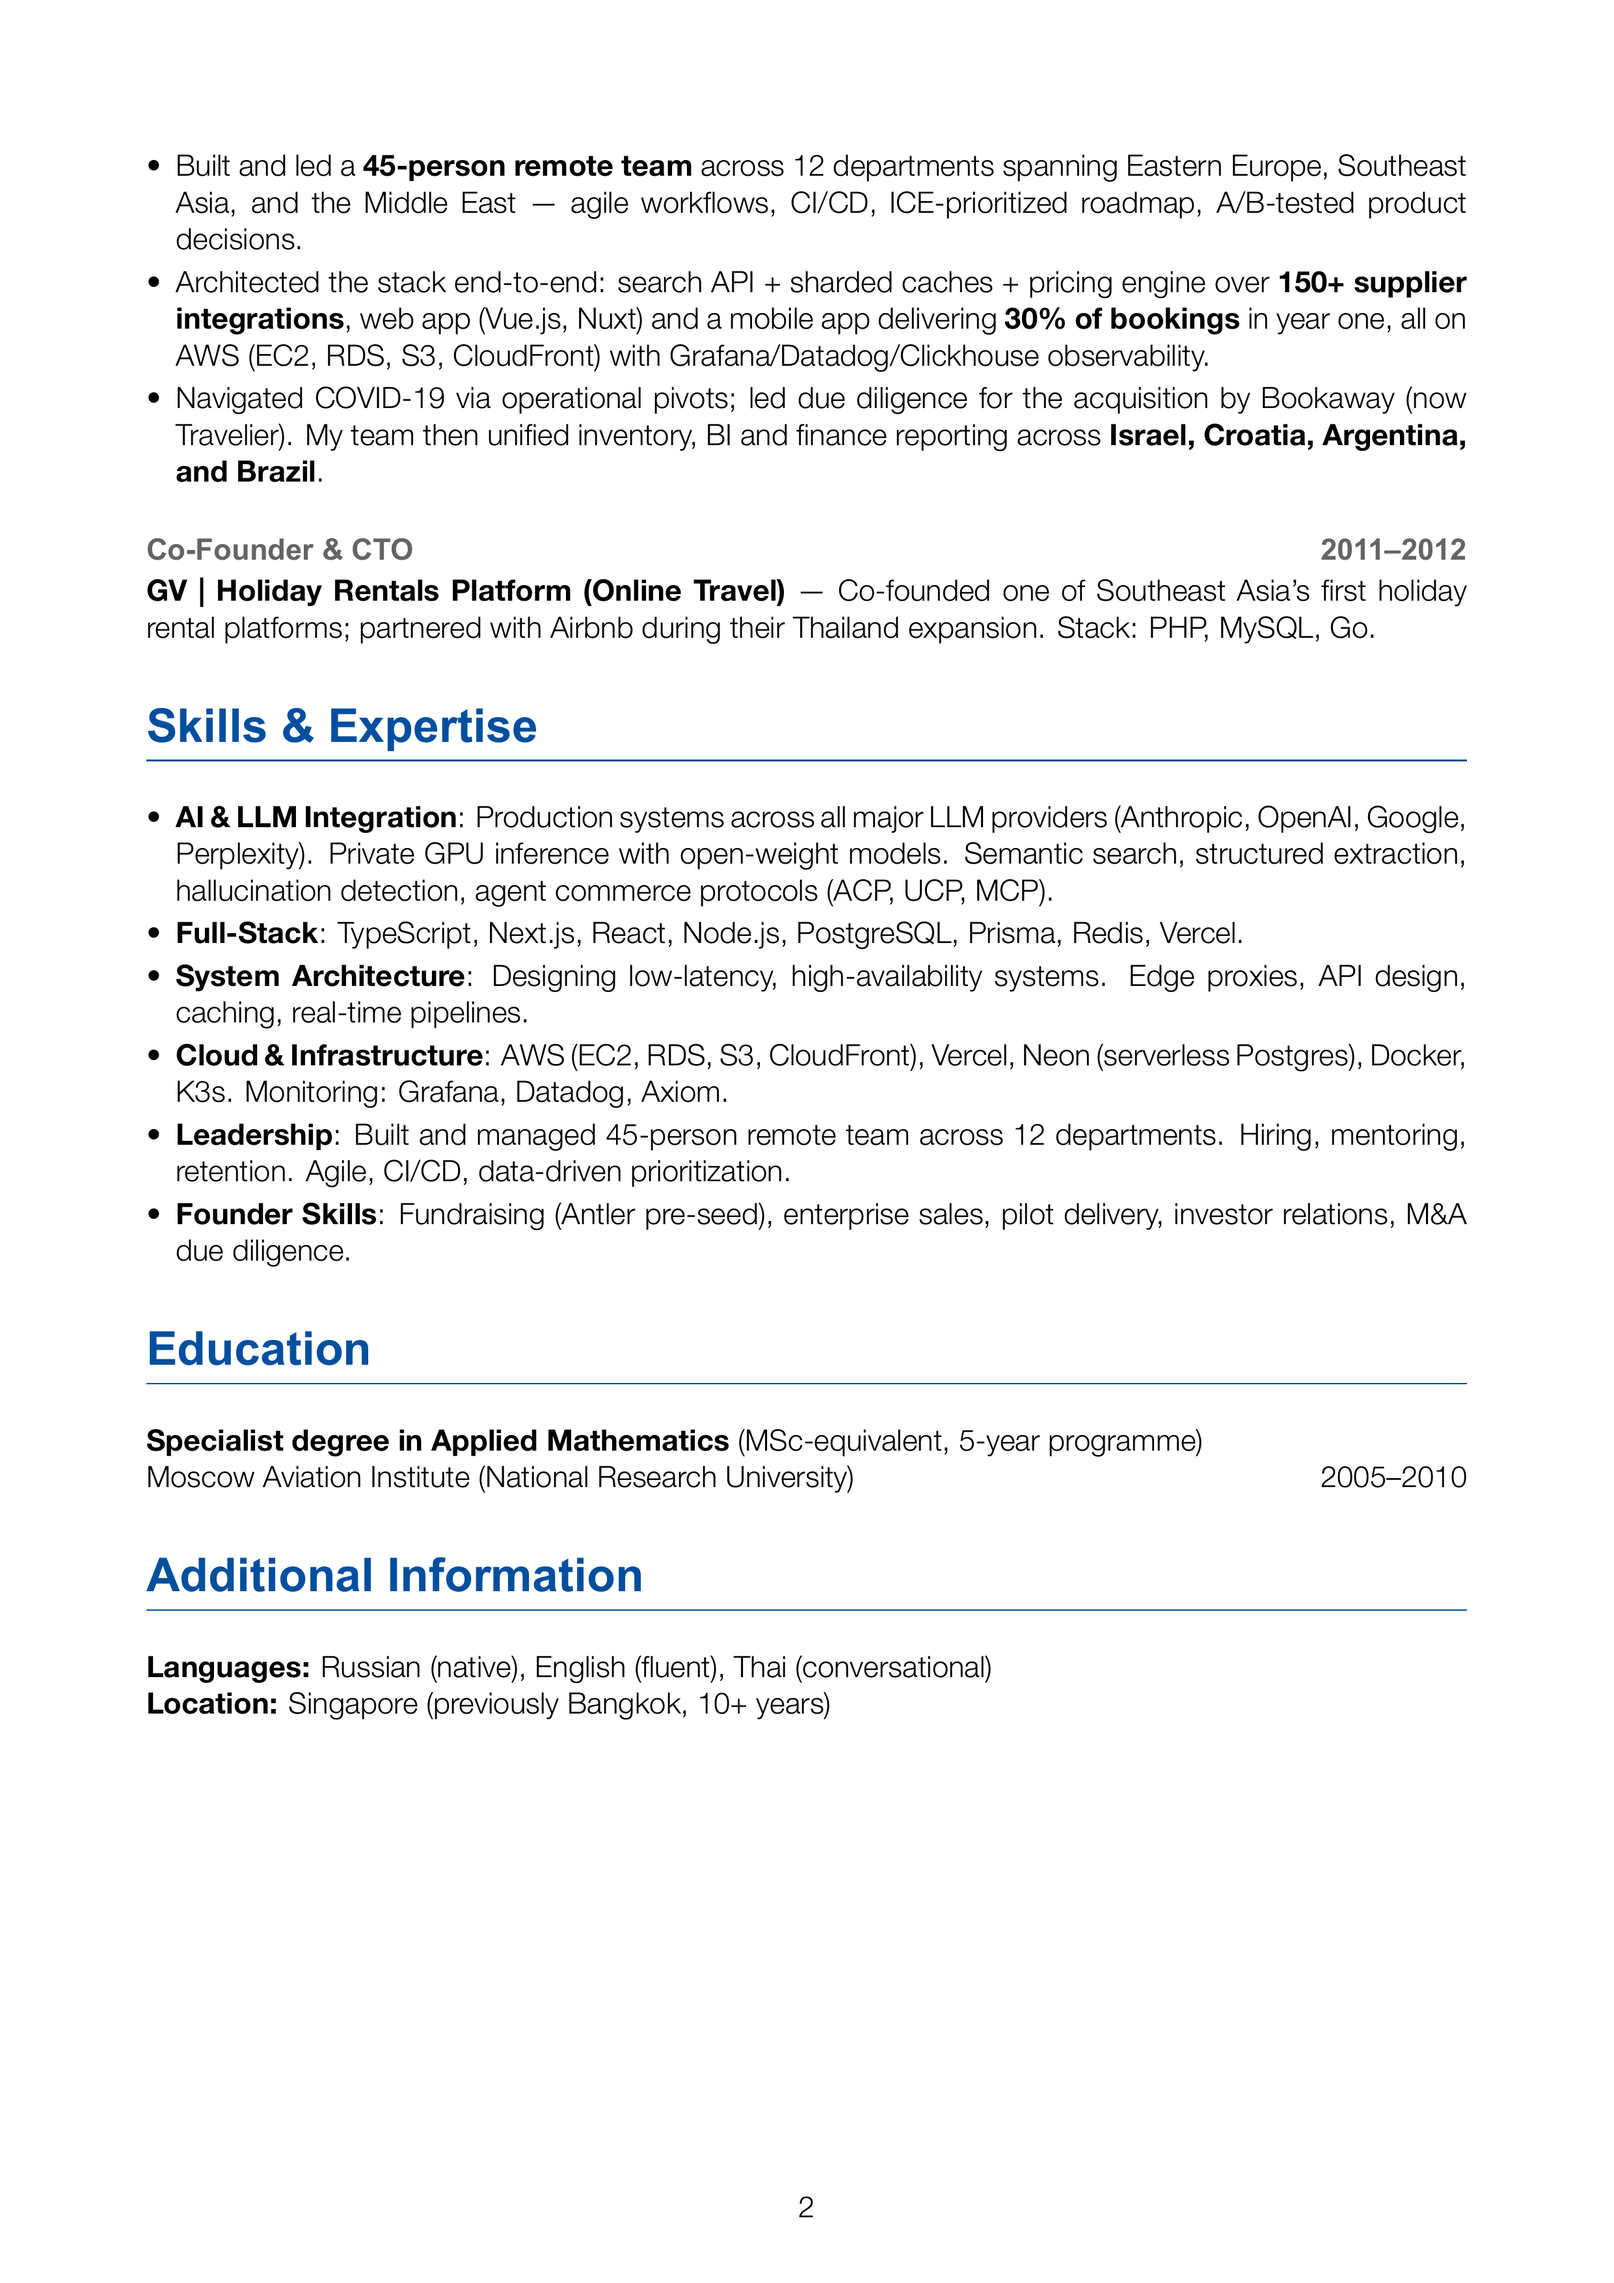
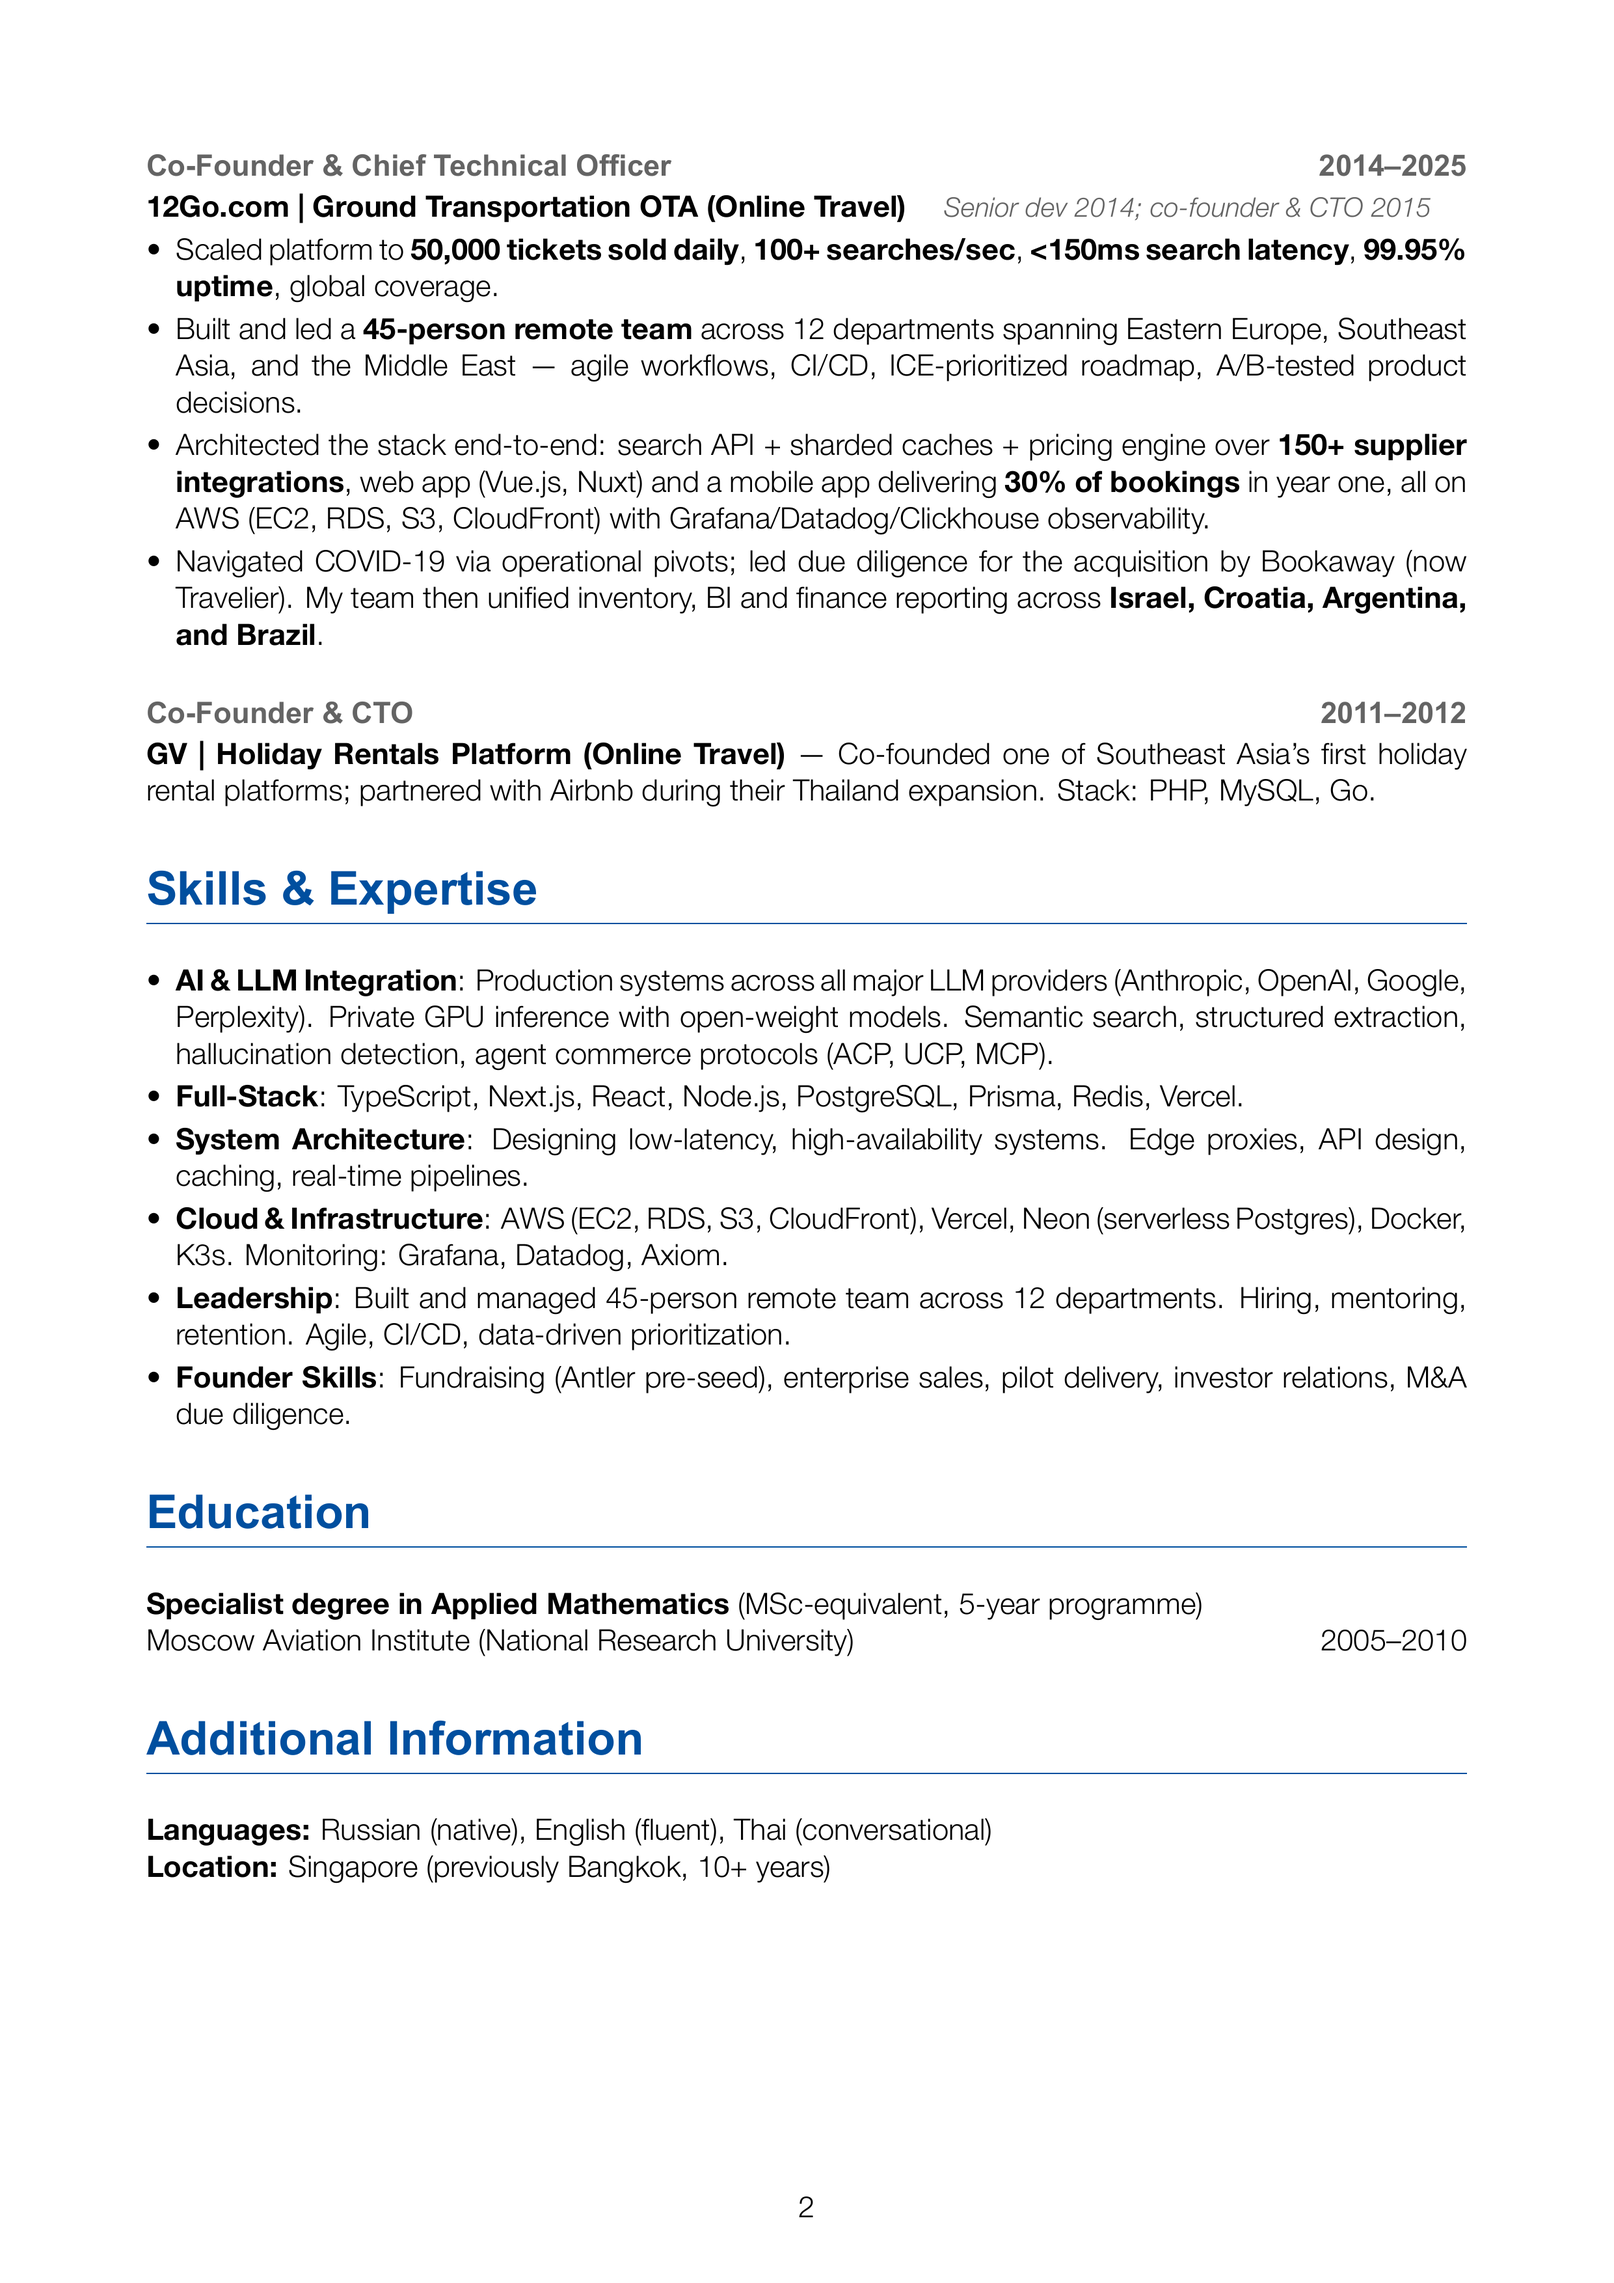
feat: add Agentic Storefront launch, NVIDIA Inception and AAIF working group

diff --git a/cv-2026.tex b/cv-2026.tex
@@ -83,7 +83,7 @@ Technical founder operating at the intersection of AI and commerce. Co-Founder \
 % Notable Achievements
 \section*{Notable Achievements}
 \begin{itemize}
-    \item \textbf{Co-founded AirShelf} --- Antler-backed, selected for \textbf{HP Garage 2.0}. Took \textbf{Toshiba Australia} from a paid pilot to a signed annual contract within 10 months of forming the company.
+    \item \textbf{Co-founded AirShelf} --- Antler-backed, selected for \textbf{HP Garage 2.0} and \textbf{NVIDIA Inception}. Took \textbf{Toshiba Australia} from a paid pilot to a signed annual contract within 10 months of forming the company.
     \item \textbf{Scaled 12Go} from startup to APAC's leading ground transportation OTA: \textbf{45-person remote team} across 12 departments, \textbf{\$500K daily GMV}, \textbf{99.95\% uptime}.
     \item \textbf{Navigated COVID-19} via operational pivots; led due diligence for the acquisition of 12Go by Bookaway (now Travelier) and the integration across \textbf{4 international markets}.
 \end{itemize}
@@ -95,9 +95,10 @@ Technical founder operating at the intersection of AI and commerce. Co-Founder \
 \textbf{AirShelf | Seller Agents for Agentic Commerce (Singapore)} \quad {\small\color{secondarycolor}\textit{Antler SG19; pre-seed funded}}
 \begin{itemize}
     \item Built and shipped the product hands-on: a seller agent that answers buyers and their AI agents from \textbf{sourced product facts} and qualifies each request. Live on \textbf{Toshiba Australia} product pages; quoting with rep approval is in proof of concept with a design partner.
-    \item Opened seller catalogs to AI agents over open protocols (MCP, ACP, UCP) with answers that cite their sources. Engineered a \textbf{fail-closed private inference mode} on open-weight models, so customer data never reaches frontier model APIs.
+    \item Launched the self-serve \textbf{AirShelf Agentic Storefront} (Oct 2026). From a website or one PDF catalogue, a seller gets a sourced product page, a sales assistant for their own site and a catalog other AI agents can query, on a monthly plan after a free trial. Read \textbf{68 of 68} real exhibitor catalogues for the HKTDC Hong Kong fairs; proposed to HP.com for its SMB programme.
+    \item Opened seller catalogs to AI agents over open protocols (MCP, ACP, UCP) with answers that cite their sources. Contributor to UCP's price-on-request and quote design; member of the \textbf{AAIF Agentic Commerce working group} (Linux Foundation). Engineered a \textbf{fail-closed private inference mode} on open-weight models, so customer data never reaches frontier model APIs.
     \item Also designed and shipped: merchant dashboard, semantic shopping API (\textbf{175+ stores / 22 markets}), AI-search visibility benchmarking across major assistants, hallucination detection, golden-record extraction pipeline.
-    \item \textbf{First paying enterprise customer}: Toshiba Australia, from paid pilot (Apr 2026) to signed annual contract (Jul 2026). Selected for \textbf{HP Garage 2.0}.
+    \item \textbf{First paying enterprise customer}: Toshiba Australia, from paid pilot (Apr 2026) to signed annual contract (Jul 2026). Selected for \textbf{HP Garage 2.0} and \textbf{NVIDIA Inception}.
 \end{itemize}
 
 \subsection*{Co-Founder \& Chief Technical Officer \hfill 2014--2025}
